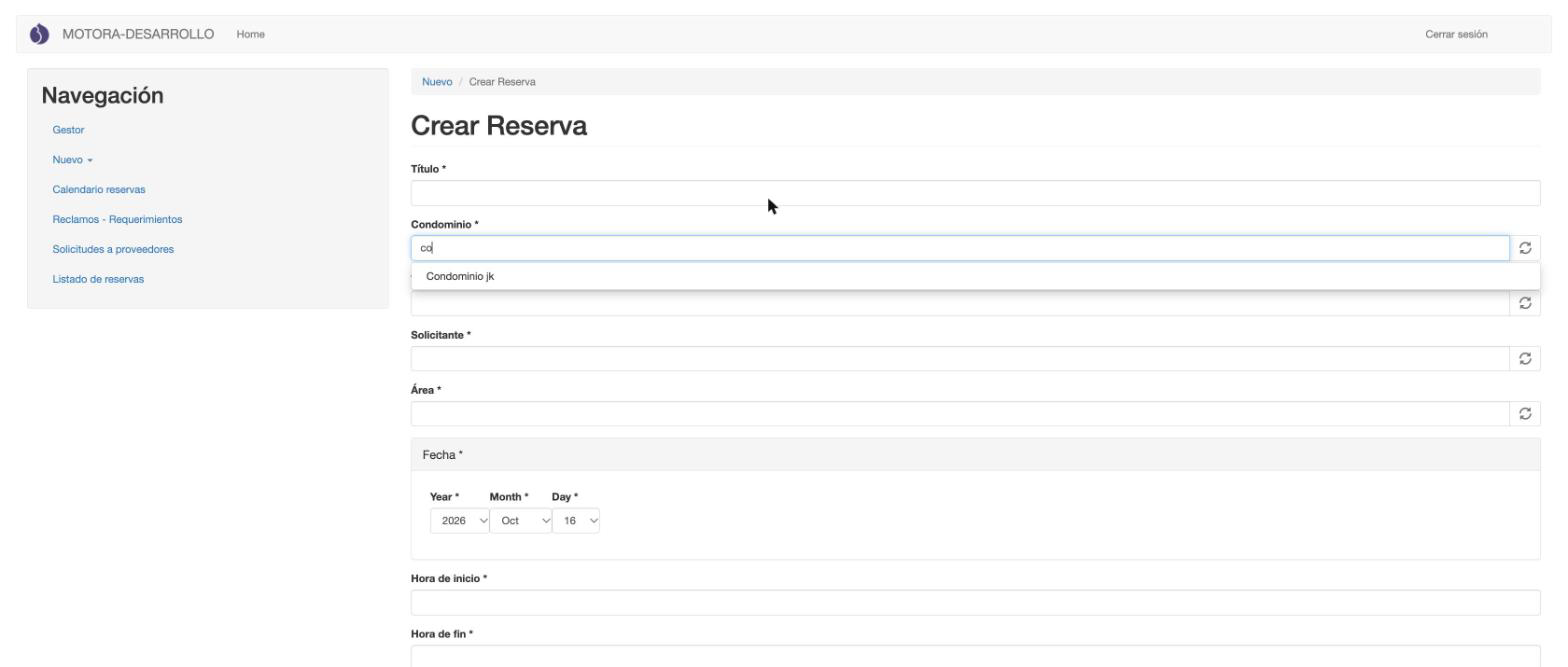
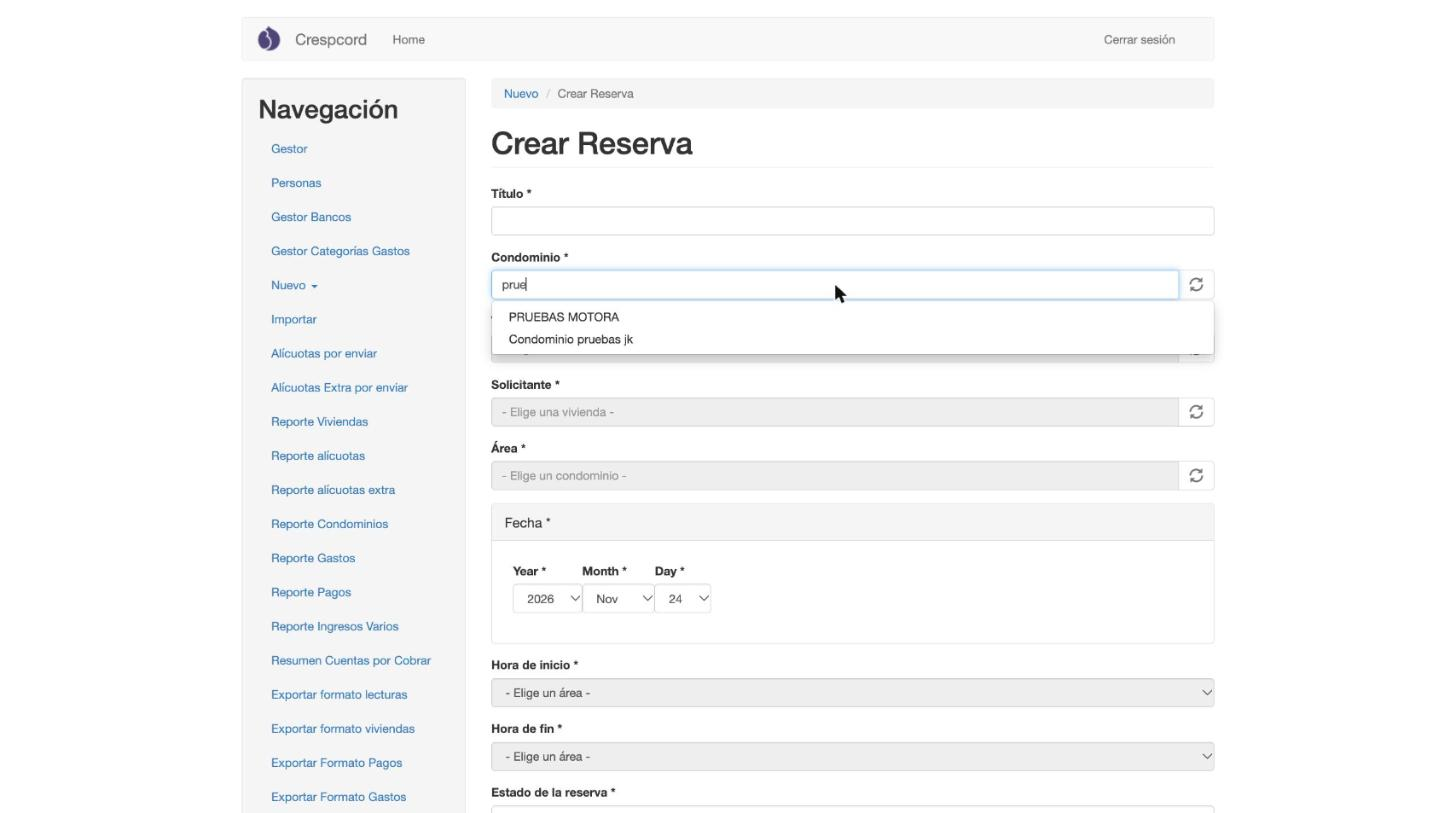
docs(manual): update back-office guide for recent form changes

diff --git a/manual_backoffice/guia/04_reservas.md b/manual_backoffice/guia/04_reservas.md
@@ -2,7 +2,7 @@
 
 # 4. Reservas, calendario y áreas comunes
 
-Los residentes reservan las áreas comunes (asadero, piscina, gimnasio…) desde la app. Aquí se consultan esas reservas y, si eres administrador edificio, también se crean reservas y áreas.
+Los residentes reservan las áreas comunes (asadero, piscina, gimnasio…) desde la app. Aquí se consultan esas reservas y también se crean reservas y áreas.
 
 > **Backend** ve las reservas de todos los condominios. **Administrador edificio** ve solo las de sus condominios.
 
@@ -110,7 +110,9 @@ Aparece el aviso *«Reserva … ha sido actualizado»*. En **Listado de reservas
 
 - Cancela en lugar de borrar: la reserva cancelada queda en el historial con su motivo. El administrador edificio solo tiene los botones **Guardar** y **Vista previa**, sin **Eliminar**.
 
-## Crear una reserva (administrador edificio)
+## Crear una reserva
+
+> Backend y administrador edificio. Las capturas son de backend; el administrador edificio ve un menú más corto.
 
 **¿Para qué sirve?**
 Para reservar un área en nombre de un residente.
@@ -123,7 +125,7 @@ Menú **Navegación** → **Nuevo** → **Reserva**.
 ![Formulario Crear Reserva, con el autocompletado de Condominio](../assets/ae_reserva_nueva.png)
 
 1. **Título**.
-2. **Condominio**, **Vivienda**, **Solicitante** y **Área**: se rellenan escribiendo y eligiendo una sugerencia de la lista. Solo aparecen los de tus condominios. En la captura, al escribir *co* solo sale *Condominio jk*.
+2. **Condominio**, **Vivienda**, **Solicitante** y **Área**: se rellenan escribiendo y eligiendo una sugerencia de la lista. Si eres administrador edificio, solo aparecen los de tus condominios. En la captura, al escribir *prue* salen los dos condominios de prueba.
    - **Vivienda** y **Área** están bloqueadas hasta que eliges el **Condominio**, y solo ofrecen las de ese condominio.
    - **Solicitante** está bloqueado hasta que eliges la **Vivienda**, y solo ofrece al propietario y a los ocupantes de esa vivienda. Se busca por su nombre de usuario.
 3. **Fecha**: año, mes y día.
@@ -165,12 +167,14 @@ Aparece el aviso *«Reserva … se ha creado»* y se abre la reserva, en estado 
   - la vivienda ya tiene otra reserva **activa** en esa área;
   - el área es solo para propietarios (o solo para inquilinos) y el solicitante no lo es.
 - La única diferencia con la app: desde aquí **sí** puedes reservar para una vivienda con saldo pendiente.
-- Estas reglas se revisan al crear la reserva y al cambiarle la vivienda, el solicitante, el área, la fecha o las horas. **Cancelar** una reserva nunca las revisa.
+- Estas reglas se revisan al crear la reserva, al cambiarle la vivienda, el solicitante, el área, la fecha o las horas, y al volver a poner en *Confirmada* una reserva cancelada. **Cancelar** una reserva nunca las revisa.
 - Si el formulario marca dos problemas en el mismo campo, muestra el primero; al corregirlo y guardar, muestra el siguiente.
 - Si otra persona reserva el mismo horario a la vez (desde aquí o desde la app), solo entra una de las dos: la otra ve el aviso de que el horario se cruza con una reserva existente.
 - Si aparece *«No se pudo leer este campo para comprobar las reglas del área»*, revisa el valor de ese campo; si es correcto, avisa al equipo técnico.
 
-## Crear un área común (administrador edificio)
+## Crear un área común
+
+> Backend y administrador edificio.
 
 **¿Para qué sirve?**
 Para dar de alta un área reservable (piscina, asadero, cancha…) y fijar sus reglas de uso.
@@ -184,7 +188,7 @@ Menú **Navegación** → **Nuevo** → **Área**.
 
 1. **Nombre del área** y **Condominio** (obligatorio, con autocompletado).
 2. **Imagen**: PNG o JPG.
-3. **Hora de apertura** y **Hora de cierre**: cada una con dos listas, la hora (00 a 23) y los minutos (de 5 en 5).
+3. **Hora de apertura** y **Hora de cierre**: cada una con dos listas, la hora (00 a 23) y los minutos (de 5 en 5, más *59* para poder cerrar a las *23:59*).
 4. **Tamaño del bloque (min)**: viene en 60. **Duración máxima (min)**: viene en 120.
 5. **Estado del área**: *Activo*, *Cerrado* o *En Mantenimiento*.
 6. **Quién puede reservar**: *Ambos*, *Propietario* o *Arrendatario*.
@@ -198,10 +202,8 @@ Menú **Navegación** → **Nuevo** → **Área**.
 
 **Consideraciones**
 
-- Si falta el condominio o una hora no tiene el formato correcto, el formulario no se guarda y muestra los errores arriba, con el campo marcado en rojo:
+- Si falta un campo obligatorio, el formulario no se guarda y muestra el error arriba, con el campo marcado en rojo. En la captura falta el condominio: *«El campo Condominio es obligatorio.»*
 
-  ![Errores al crear un área](../assets/ae_area_error_hora.png)
+  ![Error al crear un área sin condominio](../assets/area_error_condominio.png)
 
-  - *«El campo Condominio es obligatorio.»*
-  - *«Hora de apertura: el formato debe ser HH:MM en 24 horas (por ejemplo 08:00 o 22:30).»* (en la captura se escribió *8:00*).
-  - *«Hora de cierre: …»* (en la captura se escribió *24:00*, que no se acepta).
+- Con las listas ya no se puede escribir mal una hora. Si al abrir un área antigua una hora aparece como cuadro de texto en lugar de listas, es que está mal guardada: escríbela en formato **HH:MM** de 24 horas (**08:00**, no *8:00*; *24:00* no se acepta). Mientras no lo esté, el formulario no se guarda y muestra *«Hora de apertura: el formato debe ser HH:MM en 24 horas (por ejemplo 08:00 o 22:30).»*

diff --git a/manual_backoffice/USER_GUIDE.md b/manual_backoffice/USER_GUIDE.md
@@ -14,7 +14,7 @@ El back office muestra cosas distintas según el rol de tu usuario:
 | Qué condominios ve | Todos. | Solo los condominios que tiene asignados. |
 | Pagos | Revisa, aprueba y anula pagos. Reporte de pagos y CSV. | No tiene acceso. |
 | Reclamos | Ve, edita y da seguimiento. | Igual, pero solo de sus condominios. |
-| Reservas y áreas | Listado y calendario. | Listado y calendario de sus condominios. Crea reservas y áreas. |
+| Reservas y áreas | Listado y calendario. Crea reservas y áreas. | Listado y calendario de sus condominios. Crea reservas y áreas. |
 | Servicios de proveedores | Solicitudes, proveedores, ofertas y calificaciones. | Solo consulta las solicitudes de sus condominios. |
 | Boletines | Crea boletines generales, por condominio o personalizados. | Crea boletines solo de tipo *Condominio*, para sus condominios. |
 

diff --git a/manual_backoffice/guia/02_pagos.md b/manual_backoffice/guia/02_pagos.md
@@ -132,7 +132,8 @@ En el reporte de pagos, ese pago ya aparece como **Completado**.
 
 **Consideraciones**
 
-- Elige **Nuevo**, no *Completado*. Al guardar en *Nuevo* el sistema aplica el pago y lo completa él solo.
+- Para aprobar se elige **Nuevo**: al guardar en *Nuevo* el sistema aplica el pago y lo completa él solo. Por eso, en un pago **Pendiente de verificar** la lista **Estado** no ofrece *Completado*.
+- En un pago ya **Completado**, la lista **Estado** no ofrece *Pendiente de verificar*: un pago aprobado no se puede devolver a pendiente.
 
 ## Anular un pago
 
